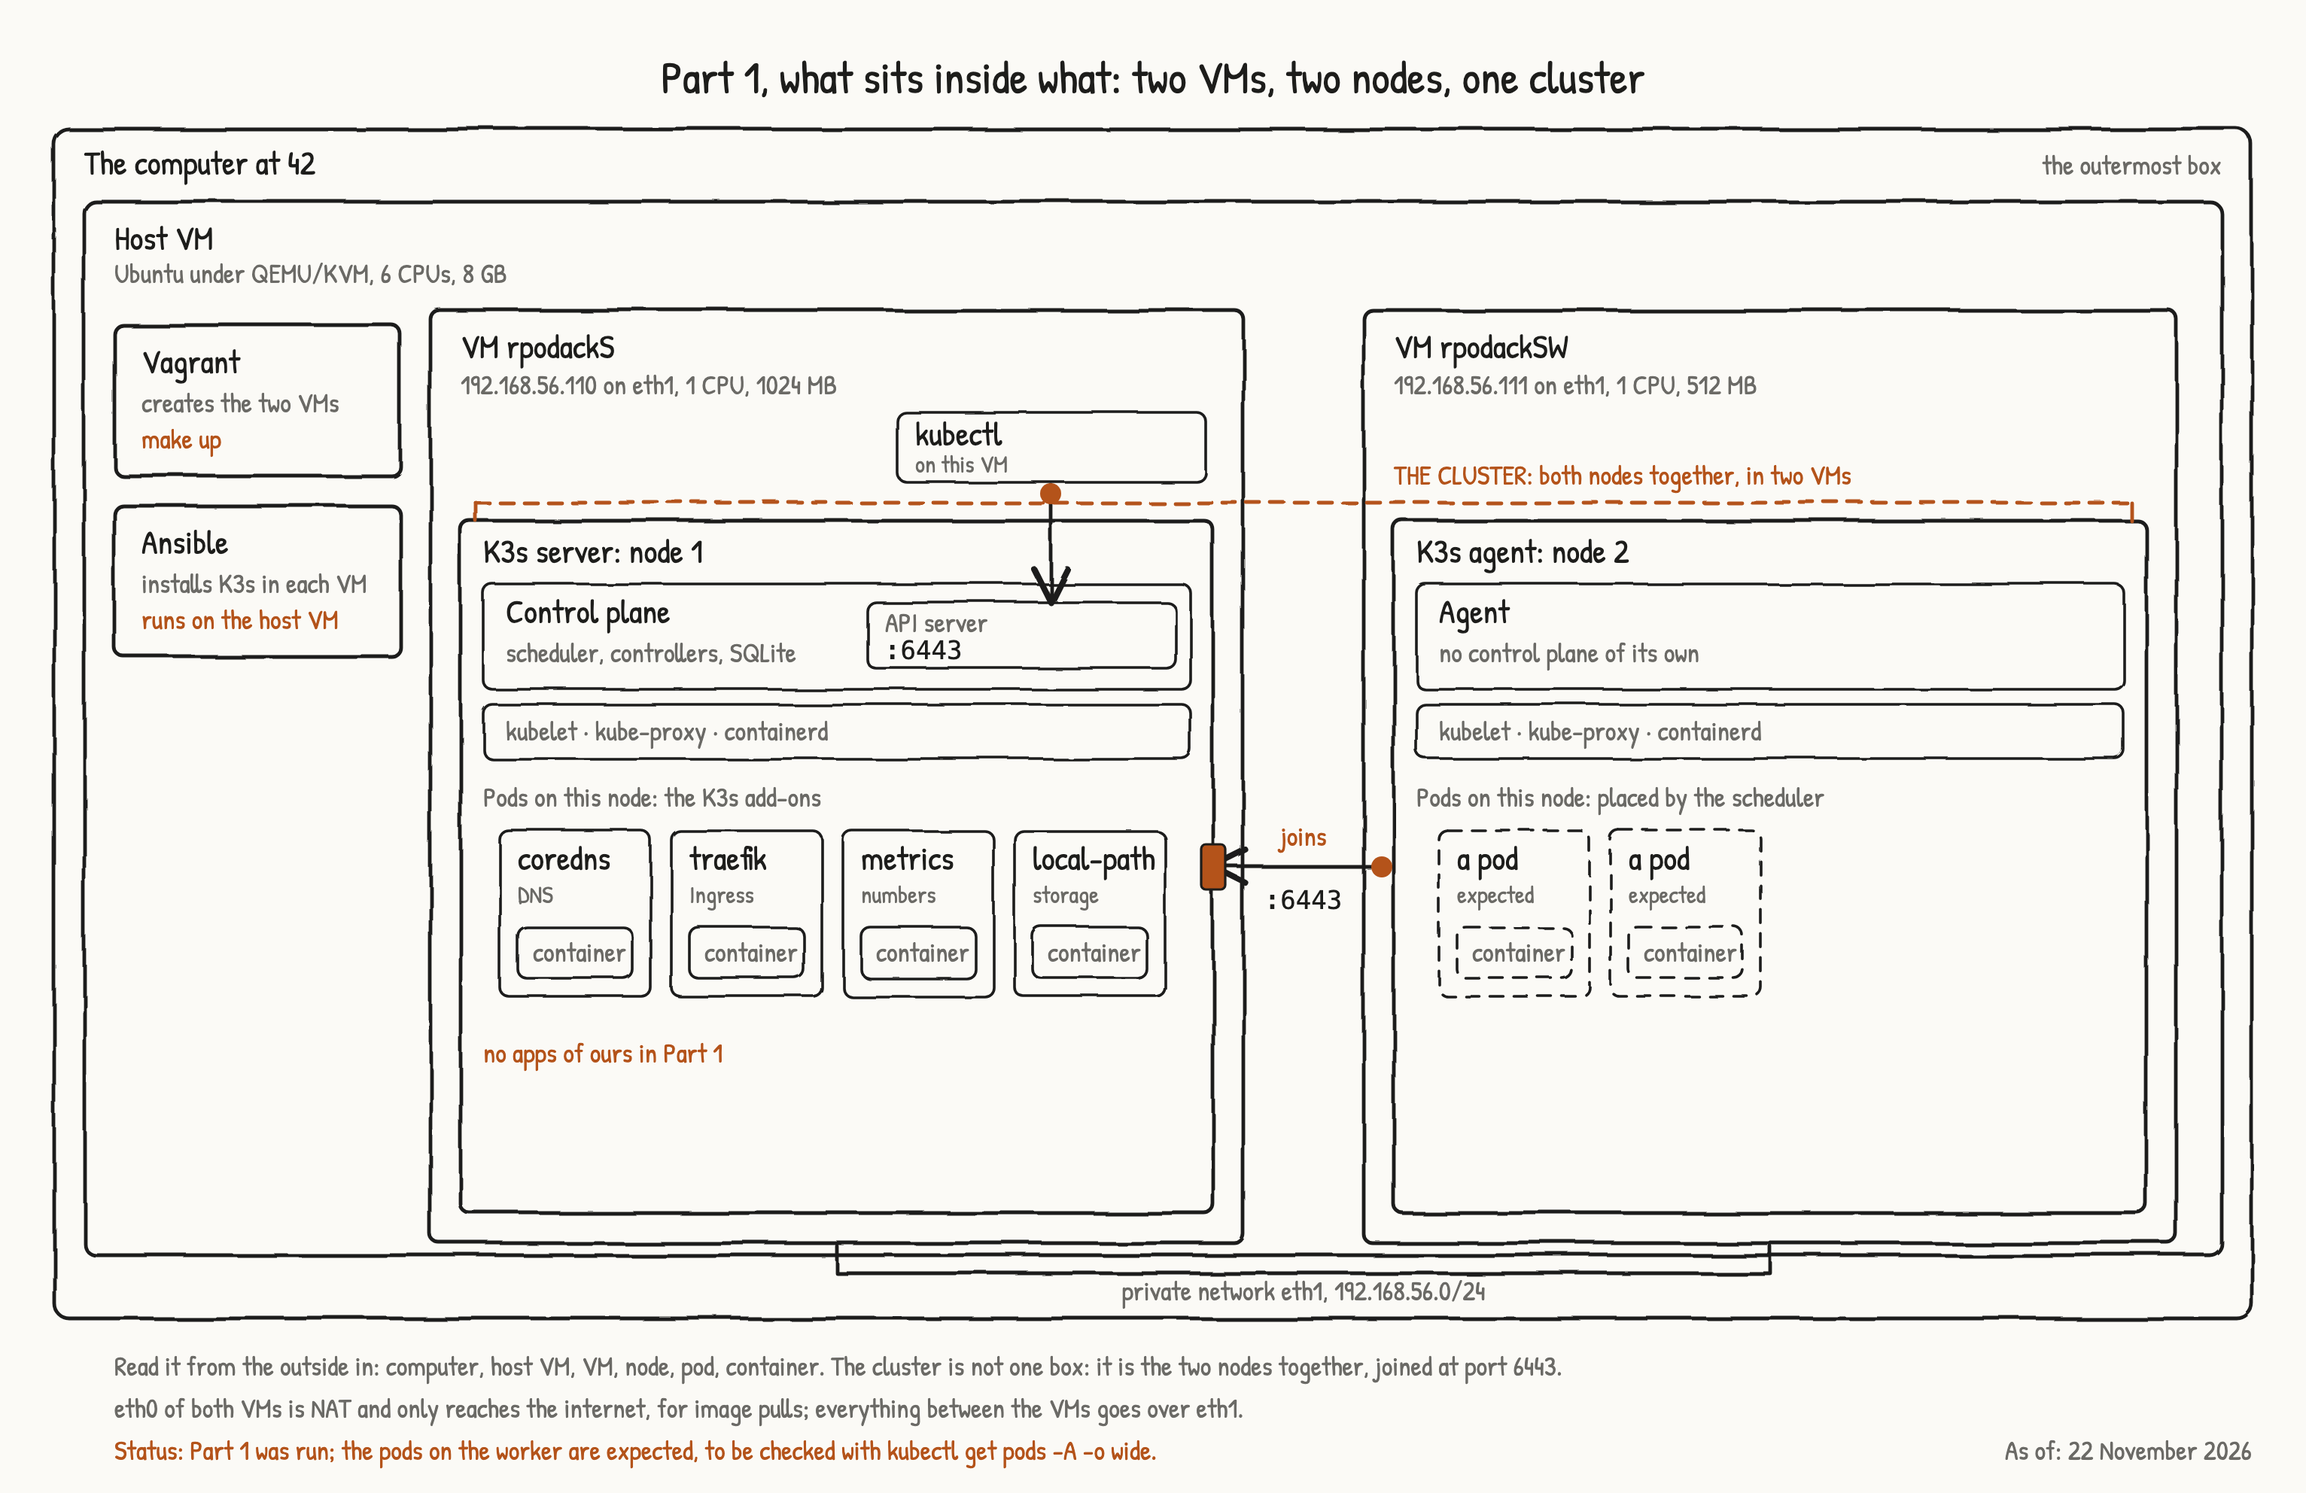
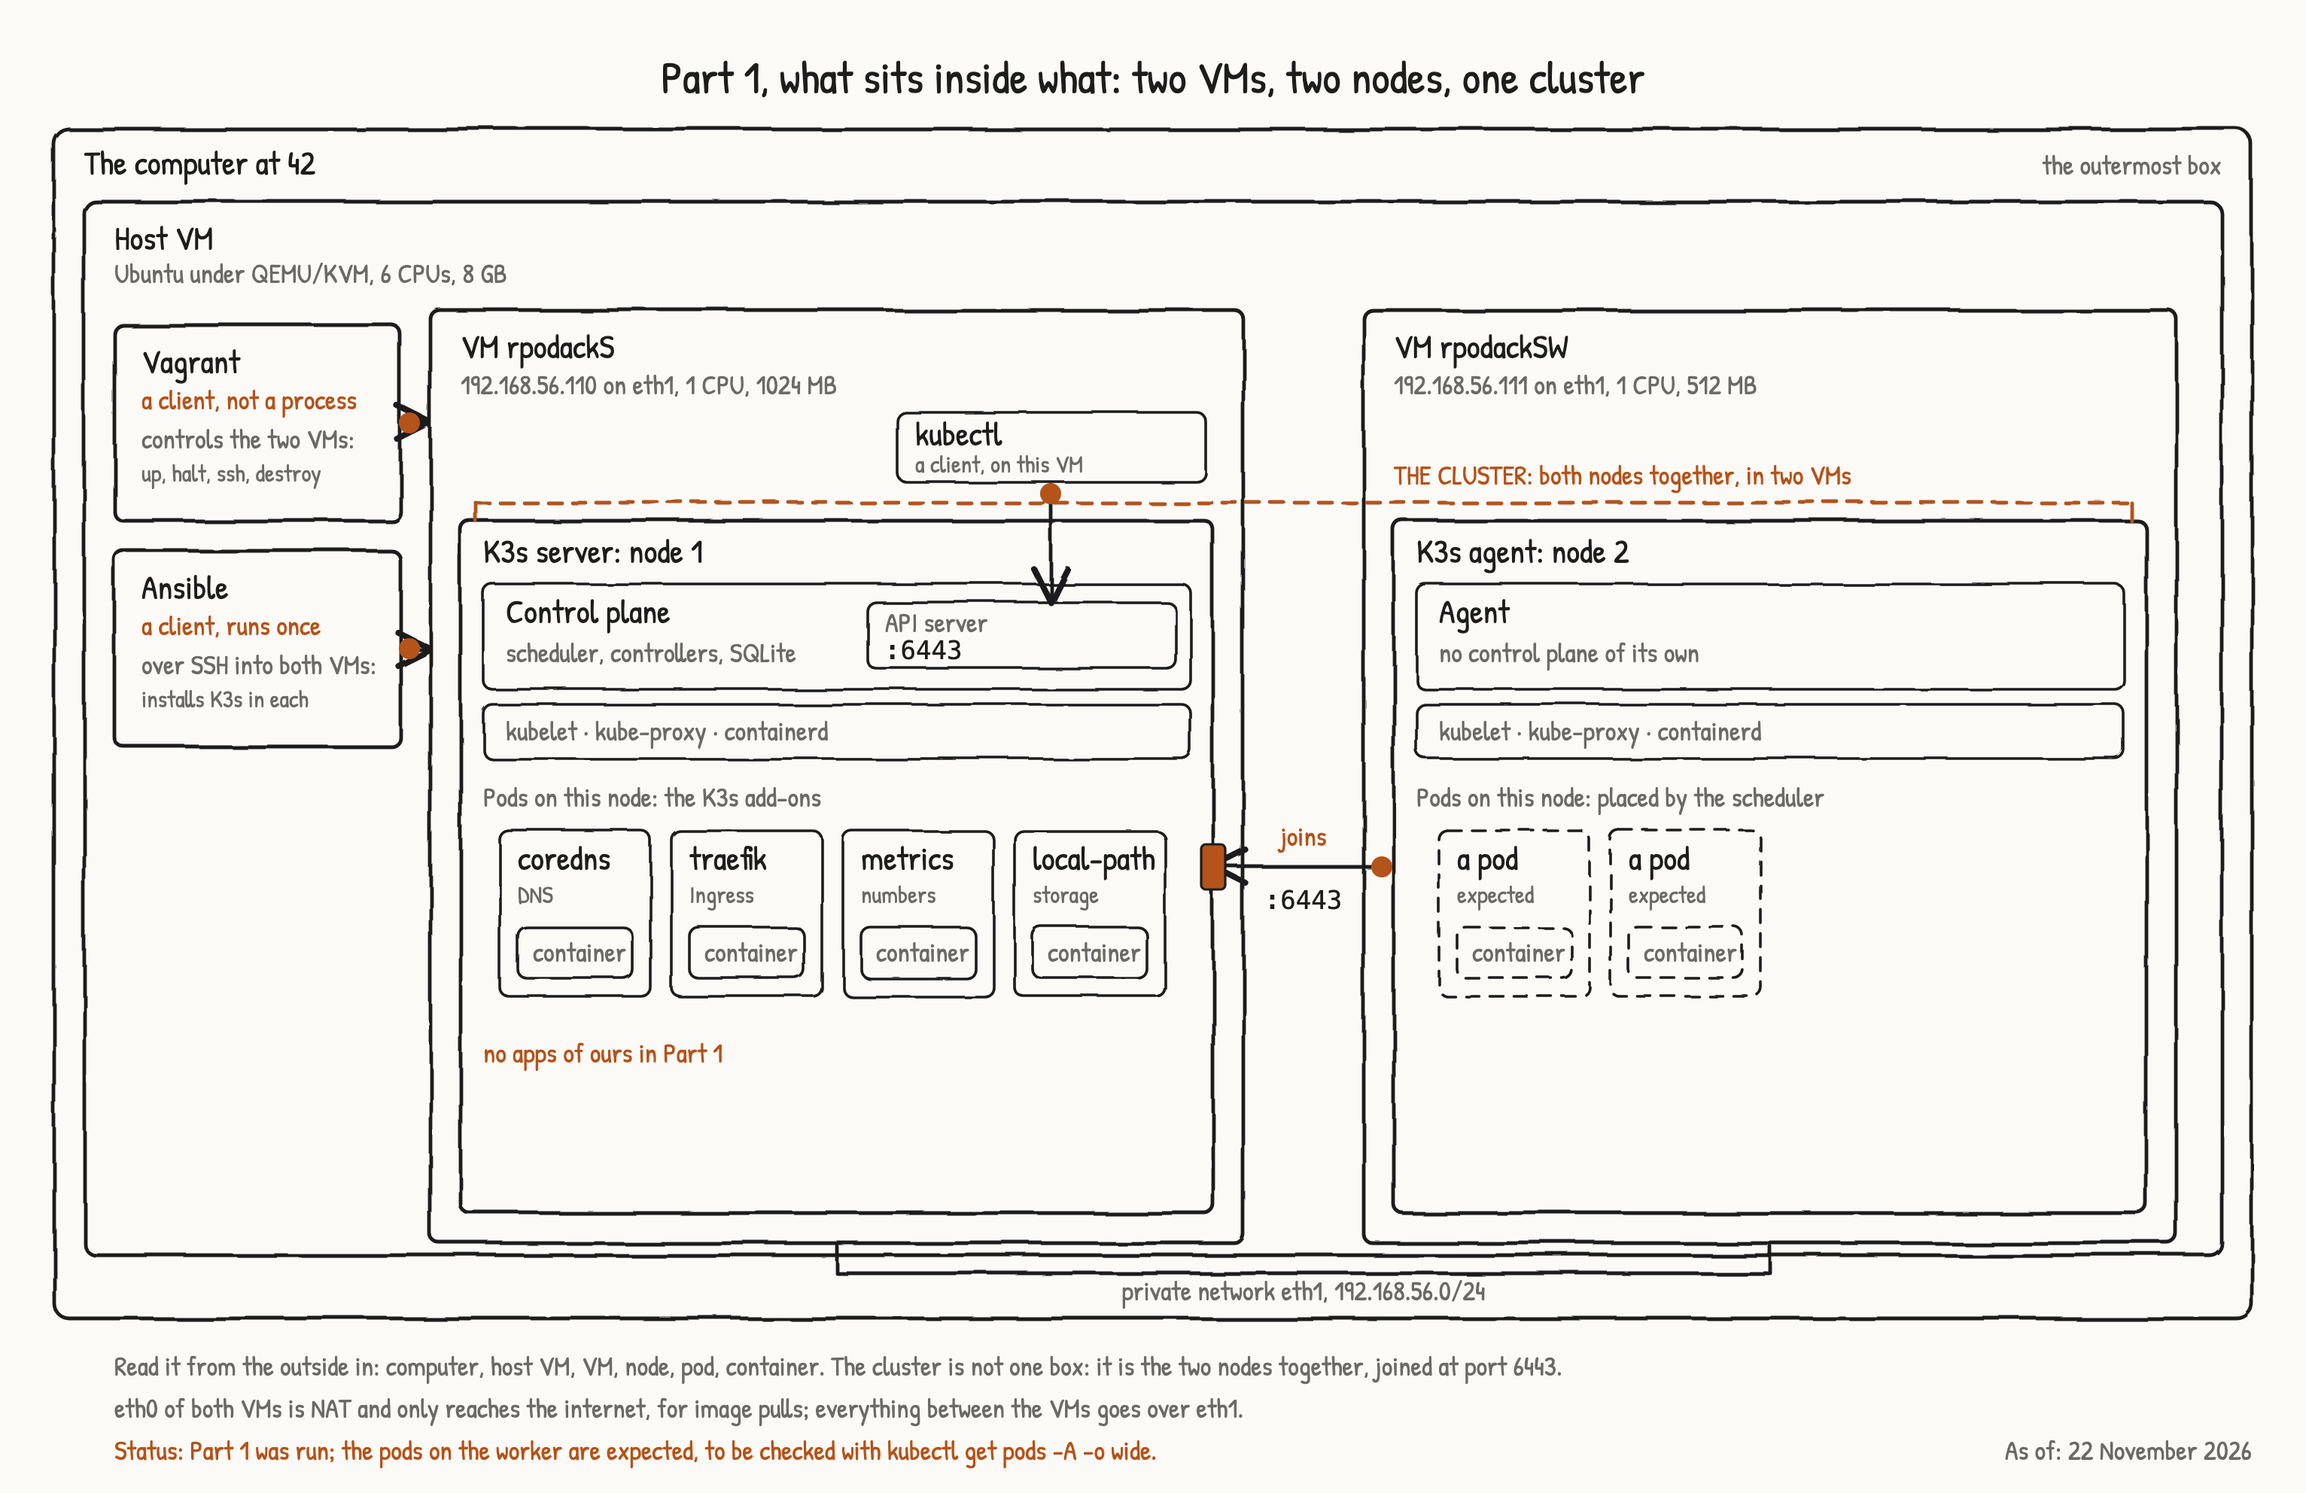
docs: kubectl, Vagrant and Ansible as clients in the pictures; three cards on kubectl and Vagrant

Changed region(s): [[0.031, 0.25, 0.186, 0.5], [0.4031, 0.2812, 0.4341, 0.3125]]

diff --git a/docs/lab/nesting/src/nesting-p1.html b/docs/lab/nesting/src/nesting-p1.html
@@ -53,8 +53,10 @@
   <g filter="url(#hand)">
     <rect x="20" y="70" width="1460" height="790" rx="10" class="line fill"/>
     <rect x="40" y="118" width="1420" height="700" rx="8" class="line fill"/>
-    <rect x="60" y="200" width="190" height="100" rx="6" class="line fill"/>
-    <rect x="60" y="320" width="190" height="100" rx="6" class="line fill"/>
+    <rect x="60" y="200" width="190" height="130" rx="6" class="line fill"/>
+    <rect x="60" y="350" width="190" height="130" rx="6" class="line fill"/>
+    <path d="M252,265 L268,265" class="line" marker-end="url(#arrow)"/>
+    <path d="M252,415 L268,415" class="line" marker-end="url(#arrow)"/>
     <rect x="270" y="190" width="540" height="620" rx="6" class="line fill"/>
     <rect x="580" y="258" width="205" height="46" rx="6" class="thin fill"/>
     <rect x="290" y="330" width="500" height="460" rx="6" class="line fill"/>
@@ -84,6 +86,8 @@
     <path d="M1400,318 L1400,330" class="line acc"/>
     <path d="M540,812 L540,830 L1160,830 L1160,812" class="line"/>
   </g>
+  <circle cx="256" cy="265" r="7" class="dot"/>
+  <circle cx="256" cy="415" r="7" class="dot"/>
   <circle cx="682" cy="312" r="7" class="dot"/>
   <circle cx="902" cy="560" r="7" class="dot"/>
   <rect x="782.0" y="545.0" width="16" height="30" rx="3" class="door"/>
@@ -93,15 +97,17 @@
   <text x="60" y="150" class="t">Host VM</text>
   <text x="60" y="172" class="s">Ubuntu under QEMU/KVM, 6 CPUs, 8 GB</text>
   <text x="78" y="232" class="t">Vagrant</text>
-  <text x="78" y="258" class="s">creates the two VMs</text>
-  <text x="78" y="282" class="a">make up</text>
-  <text x="78" y="352" class="t">Ansible</text>
-  <text x="78" y="378" class="s">installs K3s in each VM</text>
-  <text x="78" y="402" class="a">runs on the host VM</text>
+  <text x="78" y="256" class="a">a client, not a process</text>
+  <text x="78" y="282" class="s">controls the two VMs:</text>
+  <text x="78" y="304" class="xs">up, halt, ssh, destroy</text>
+  <text x="78" y="382" class="t">Ansible</text>
+  <text x="78" y="406" class="a">a client, runs once</text>
+  <text x="78" y="432" class="s">over SSH into both VMs:</text>
+  <text x="78" y="454" class="xs">installs K3s in each</text>
   <text x="290" y="222" class="t">VM rpodackS</text>
   <text x="290" y="246" class="s">192.168.56.110 on eth1, 1 CPU, 1024 MB</text>
   <text x="592" y="280" class="t">kubectl</text>
-  <text x="592" y="298" class="xs">on this VM</text>
+  <text x="592" y="298" class="xs">a client, on this VM</text>
   <text x="305" y="358" class="t">K3s server: node 1</text>
   <text x="320" y="398" class="t">Control plane</text>
   <text x="320" y="424" class="s">scheduler, controllers, SQLite</text>

diff --git a/docs/lab/nesting/src/nesting-architecture.html b/docs/lab/nesting/src/nesting-architecture.html
@@ -103,17 +103,17 @@
   <circle cx="186" cy="162" r="7" class="dot"/>
   <text x="750" y="46" class="h" text-anchor="middle">Kubernetes architecture, with the technologies we use</text>
   <text x="32" y="138" class="t">kubectl</text>
-  <text x="32" y="164" class="xs">you, from outside</text>
+  <text x="32" y="164" class="xs">a client, you type it</text>
   <text x="32" y="186" class="xs">asks the API server</text>
   <text x="32" y="280" class="t">Vagrant</text>
-  <text x="32" y="306" class="xs">with libvirt, QEMU/KVM</text>
-  <text x="32" y="328" class="xs">builds VMs (Parts 1, 2)</text>
+  <text x="32" y="306" class="xs">client of libvirt</text>
+  <text x="32" y="328" class="xs">controls the VMs (1, 2)</text>
   <text x="32" y="422" class="t">Ansible</text>
-  <text x="32" y="448" class="xs">from the host VM</text>
-  <text x="32" y="470" class="xs">installs K3s (Parts 1, 2)</text>
+  <text x="32" y="448" class="xs">client, runs once</text>
+  <text x="32" y="470" class="xs">installs K3s (1, 2)</text>
   <text x="32" y="564" class="t">k3d, Docker</text>
-  <text x="32" y="590" class="xs">nodes as containers</text>
-  <text x="32" y="612" class="xs">Part 3 and the bonus</text>
+  <text x="32" y="590" class="xs">client of Docker</text>
+  <text x="32" y="612" class="xs">builds the cluster (3)</text>
   <text x="32" y="706" class="t">GitHub, GitLab</text>
   <text x="32" y="732" class="xs">outside, or inside</text>
   <text x="32" y="754" class="xs">Argo CD follows it</text>

diff --git a/docs/lab/nesting/tools/gen.py b/docs/lab/nesting/tools/gen.py
@@ -188,11 +188,13 @@ def part1():
     sk.box(20, 70, 1460, 790, "line", rx=10); sk.t(40, 100, "The computer at 42", "t"); sk.t(1460, 100, "the outermost box", "s", "end")
     sk.box(40, 118, 1420, 700, "line", rx=8); sk.t(60, 150, "Host VM", "t"); sk.t(60, 172, "Ubuntu under QEMU/KVM, 6 CPUs, 8 GB", "s")
     # tools beside the VMs
-    sk.box(60, 200, 190, 100, "line", rx=6); sk.t(78, 232, "Vagrant", "t"); sk.t(78, 258, "creates the two VMs", "s"); sk.t(78, 282, "make up", "a")
-    sk.box(60, 320, 190, 100, "line", rx=6); sk.t(78, 352, "Ansible", "t"); sk.t(78, 378, "installs K3s in each VM", "s"); sk.t(78, 402, "runs on the host VM", "a")
+    sk.box(60, 200, 190, 130, "line", rx=6); sk.t(78, 232, "Vagrant", "t"); sk.t(78, 256, "a client, not a process", "a"); sk.t(78, 282, "controls the two VMs:", "s"); sk.t(78, 304, "up, halt, ssh, destroy", "xs")
+    sk.box(60, 350, 190, 130, "line", rx=6); sk.t(78, 382, "Ansible", "t"); sk.t(78, 406, "a client, runs once", "a"); sk.t(78, 432, "over SSH into both VMs:", "s"); sk.t(78, 454, "installs K3s in each", "xs")
+    sk.arrow(252, 265, 268, 265); sk.dot(256, 265)
+    sk.arrow(252, 415, 268, 415); sk.dot(256, 415)
     # VM 1: the server
     sk.box(270, 190, 540, 620, "line"); sk.t(290, 222, "VM rpodackS", "t"); sk.t(290, 246, "192.168.56.110 on eth1, 1 CPU, 1024 MB", "s")
-    sk.box(580, 258, 205, 46, "thin"); sk.t(592, 280, "kubectl", "t"); sk.t(592, 298, "on this VM", "xs")
+    sk.box(580, 258, 205, 46, "thin"); sk.t(592, 280, "kubectl", "t"); sk.t(592, 298, "a client, on this VM", "xs")
     sk.box(290, 330, 500, 460, "line"); sk.t(305, 358, "K3s server: node 1", "t")
     sk.box(305, 372, 470, 70, "thin"); sk.t(320, 398, "Control plane", "t"); sk.t(320, 424, "scheduler, controllers, SQLite", "s")
     sk.box(560, 384, 205, 44, "thin"); sk.t(572, 404, "API server", "s"); sk.t(572, 422, ":6443", "mono")
@@ -492,10 +494,10 @@ def architecture():
     sk = Sketch("Kubernetes architecture, with the technologies we use", "A full Kubernetes architecture as nested boxes: the cluster, the control plane, the objects, the nodes with their components and the add-on pods, with the tool that fills each part in our project")
     sk.t(750, 46, "Kubernetes architecture, with the technologies we use", "h", "middle")
     # outside tools
-    tools = [("kubectl", "you, from outside", "asks the API server"),
-             ("Vagrant", "with libvirt, QEMU/KVM", "builds VMs (Parts 1, 2)"),
-             ("Ansible", "from the host VM", "installs K3s (Parts 1, 2)"),
-             ("k3d, Docker", "nodes as containers", "Part 3 and the bonus"),
+    tools = [("kubectl", "a client, you type it", "asks the API server"),
+             ("Vagrant", "client of libvirt", "controls the VMs (1, 2)"),
+             ("Ansible", "client, runs once", "installs K3s (1, 2)"),
+             ("k3d, Docker", "client of Docker", "builds the cluster (3)"),
              ("GitHub, GitLab", "outside, or inside", "Argo CD follows it")]
     for i, (a, b, c) in enumerate(tools):
         y = 110 + i * 142

diff --git a/docs/deck/content/cards.md b/docs/deck/content/cards.md
@@ -73,6 +73,18 @@ tags: kubernetes basics
 It is the only door into the cluster: it receives requests, authenticates them, validates them and stores the result in the datastore. kubectl talks to it, and so do all internal components (scheduler, controllers, kubelets); they never talk to the datastore directly.
 tags: kubernetes architecture
 
+### Where is kubectl in the Part 1 picture, and is it part of the server or the worker?
+Neither. kubectl is a client, like a browser is a client of a web server. The cluster is the server and the worker: the API server on the server node, and the kubelets on both nodes. kubectl is not one of them and the cluster runs the same without it. It only turns your command into an HTTPS request to the API server, on port 6443 of rpodackS. In Part 1 you type it on rpodackS itself, after vagrant ssh, so it sits inside that VM but outside the K3s server process; it finds the API server through the file /etc/rancher/k3s/k3s.yaml. The worker needs no kubectl: it only joins the server with the node token and takes its orders from the API server.
+tags: kubectl architecture part1
+
+### Do I have to install kubectl to reach the cluster, like installing a browser?
+Yes, you need a client wherever you want to talk to a cluster, and a way to find the cluster, like a browser plus a web address and a login. In Part 1 and Part 2 you do not install it: the K3s installer puts a kubectl on every machine it installs K3s on (a link to the k3s program), and you use the one on rpodackS, where the file /etc/rancher/k3s/k3s.yaml holds the address and the credentials. The worker has the program too but no cluster file to read, so it is useless there. In Part 3 there is no K3s installer on the host: you install kubectl on the host VM yourself, and p3/scripts/installationhost.sh does it together with Docker. To use it from another machine you also copy the cluster file and put the server's address into it.
+tags: kubectl part1 part3 installation
+
+### Is Vagrant just a Makefile that builds the VMs?
+No, it also keeps control of them. A Makefile builds something and has no relation to it afterwards. Vagrant is a client of libvirt: vagrant up asks libvirt for the VMs and starts Ansible, and Vagrant keeps in the folder .vagrant which machine belongs to which name. Later it can start, stop, delete and enter them again (vagrant halt, destroy, ssh). It is not a running process: while the VMs run, only libvirt and the QEMU processes are there. So Vagrant is for the VMs what kubectl is for the cluster: a client that controls, not part of what it controls. Ansible is the second client: it goes into the VMs once over SSH and installs K3s.
+tags: vagrant architecture part1
+
 ### What happens when you run kubectl get pods?
 kubectl reads the kubeconfig for the server address and credentials, sends an HTTPS GET to the API server (port 6443), the API server reads the Pod objects from the datastore and returns JSON, kubectl prints it as a table.
 tags: kubernetes architecture kubectl

diff --git a/docs/evaluation/cards.md b/docs/evaluation/cards.md
@@ -73,6 +73,18 @@ tags: kubernetes basics
 It is the only door into the cluster: it receives requests, authenticates them, validates them and stores the result in the datastore. kubectl talks to it, and so do all internal components (scheduler, controllers, kubelets); they never talk to the datastore directly.
 tags: kubernetes architecture
 
+### Where is kubectl in the Part 1 picture, and is it part of the server or the worker?
+Neither. kubectl is a client, like a browser is a client of a web server. The cluster is the server and the worker: the API server on the server node, and the kubelets on both nodes. kubectl is not one of them and the cluster runs the same without it. It only turns your command into an HTTPS request to the API server, on port 6443 of rpodackS. In Part 1 you type it on rpodackS itself, after vagrant ssh, so it sits inside that VM but outside the K3s server process; it finds the API server through the file /etc/rancher/k3s/k3s.yaml. The worker needs no kubectl: it only joins the server with the node token and takes its orders from the API server.
+tags: kubectl architecture part1
+
+### Do I have to install kubectl to reach the cluster, like installing a browser?
+Yes, you need a client wherever you want to talk to a cluster, and a way to find the cluster, like a browser plus a web address and a login. In Part 1 and Part 2 you do not install it: the K3s installer puts a kubectl on every machine it installs K3s on (a link to the k3s program), and you use the one on rpodackS, where the file /etc/rancher/k3s/k3s.yaml holds the address and the credentials. The worker has the program too but no cluster file to read, so it is useless there. In Part 3 there is no K3s installer on the host: you install kubectl on the host VM yourself, and p3/scripts/installationhost.sh does it together with Docker. To use it from another machine you also copy the cluster file and put the server's address into it.
+tags: kubectl part1 part3 installation
+
+### Is Vagrant just a Makefile that builds the VMs?
+No, it also keeps control of them. A Makefile builds something and has no relation to it afterwards. Vagrant is a client of libvirt: vagrant up asks libvirt for the VMs and starts Ansible, and Vagrant keeps in the folder .vagrant which machine belongs to which name. Later it can start, stop, delete and enter them again (vagrant halt, destroy, ssh). It is not a running process: while the VMs run, only libvirt and the QEMU processes are there. So Vagrant is for the VMs what kubectl is for the cluster: a client that controls, not part of what it controls. Ansible is the second client: it goes into the VMs once over SSH and installs K3s.
+tags: vagrant architecture part1
+
 ### What happens when you run kubectl get pods?
 kubectl reads the kubeconfig for the server address and credentials, sends an HTTPS GET to the API server (port 6443), the API server reads the Pod objects from the datastore and returns JSON, kubectl prints it as a table.
 tags: kubernetes architecture kubectl
